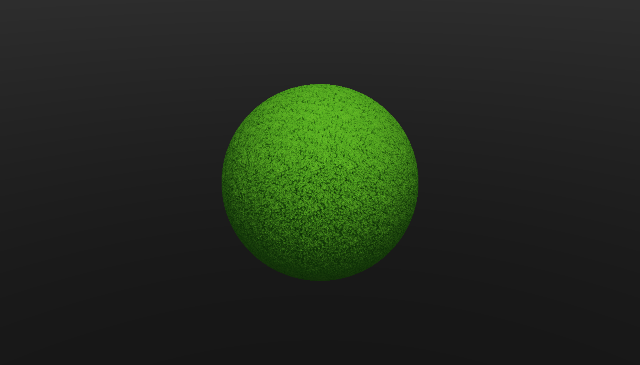
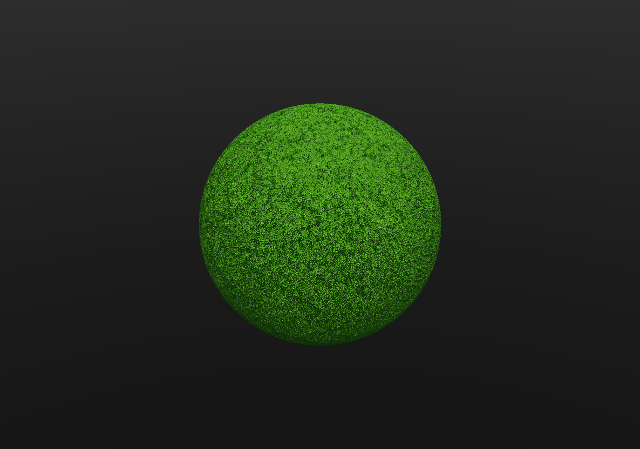
Audit leftovers I missed: bake-rev invalidation, the mesh inspector's own decode
Completing the previous commit, which staged the experiment shaders but not the
harness-side work that went with them:

- `src/bake/io.ts` + `cache.ts` gain SHARED_BAKE_REV, so a change to a SHARED
  decoder invalidates every OPFS entry. Bake keys are per-experiment and contain
  no decoder version, so without this a stale artifact is loaded in preference to
  re-baking and the fix silently does nothing. Verified by seeding a cache with
  legacy and r1 entries and watching both get evicted.
- `mesh-view.wgsl` was the 40th hand-rolled copy — the harness's own mesh
  inspector, which is the page you would use to check whether normals look
  right. It now includes the shared decoder like everything else.
- `src/gpu/texture.ts`: a comment claimed its self-consistent octahedral
  encode/decode pair "matched GcMesh.normalAt()". That was the wrong half of the
  truth — both were y-derived and only one of them was allowed to be. The pair is
  free to derive whichever axis it likes because it round-trips against itself;
  the note now says so and points at the measured GCMESH1 convention instead.

Left alone deliberately: AGENTS.md (untracked, a CLAUDE.md copy whose only
difference is "Standing practice for Codex" — not mine to commit), and
src/material/** plus the two new material directories, which two agents are
actively editing.

Changed region(s): [[0.3125, 0.211, 0.6875, 0.7534]]

diff --git a/src/bake/io.ts b/src/bake/io.ts
@@ -1,6 +1,6 @@
 import { HAS_DEV_SINK } from '../util/env.ts'
 import { assetUrl } from '../util/paths.ts'
-import { bakeCacheGet, bakeCachePut } from './cache.ts'
+import { bakeCacheGet, bakeCachePruneOther, bakeCachePut } from './cache.ts'
 
 /**
  * Per-experiment bake flow. An experiment's baked artifact format is entirely
@@ -32,13 +32,36 @@ export interface BakeContext {
   onProgress?: (fraction: number, note?: string) => void
 }
 
+/**
+ * Revision of the SHARED code every bake reads through — bump it and every
+ * OPFS-cached artifact in every browser is invalidated at once.
+ *
+ * An experiment folds its own `bakeVersion` into `ctx.key`, but it cannot fold
+ * in a harness change, and a stale cache silently wins over corrected code:
+ * that is exactly what happened when the GCMESH1 octahedral normal decode was
+ * corrected (2026-07-26) — every bake that had ever decoded a source normal was
+ * wrong, and every one of them would have been served from OPFS anyway.
+ * Committed files under mesh/baked/ are NOT namespaced by this (their paths are
+ * quoted in NOTES.md and bench results); invalidate those by deleting them.
+ *
+ *   r1  original
+ *   r2  GCMESH1 source normals: stored pair is (x, y) and the derived component
+ *       is z, not y (src/wgsl/gcmesh.wgsl, decodeGcMeshNormal)
+ */
+const SHARED_BAKE_REV = 'r2'
+
 /** OPFS key. 'bin' keeps the historical spelling so no cache needs migrating. */
 function cacheKey(ctx: BakeContext): string {
   const ext = ctx.ext ?? 'bin'
-  return ext === 'bin' ? `${ctx.expId}__${ctx.key}` : `${ctx.expId}__${ctx.key}__${ext}`
+  const base = ext === 'bin' ? `${ctx.expId}__${ctx.key}` : `${ctx.expId}__${ctx.key}__${ext}`
+  return `${SHARED_BAKE_REV}__${base}`
 }
 
+let pruned: Promise<void> | null = null
+
 export async function bakedArtifact(ctx: BakeContext, bake: () => Promise<ArrayBuffer>): Promise<ArrayBuffer> {
+  // Once per session, evict artifacts from earlier shared revisions.
+  pruned ??= bakeCachePruneOther(`${SHARED_BAKE_REV}__`)
   const fullKey = cacheKey(ctx)
   const cached = await bakeCacheGet(fullKey)
   if (cached) return cached

diff --git a/src/gpu/texture.ts b/src/gpu/texture.ts
@@ -769,12 +769,18 @@ ${body}
  * `createTexture2D` throws if you try, and the reason is in
  * `OCTAHEDRAL_MIP_ERROR` / the module header.
  *
- * This is the house convention, matching `GcMesh.normalAt()` in
- * src/mesh/gcmesh.ts and the ~62 WGSL decoders already in experiments/:
  * **Y-primary** — the stored pair is (n.x, n.z) and n.y is the derived
  * component, folded when negative. Encode returns [0,1]; decode takes [0,1].
  * The sign uses `select(-1, 1, v >= 0)`, not `sign()`, which returns 0 at
  * exactly 0 (a dozen experiment shaders have that latent difference).
+ *
+ * This pair is SELF-CONSISTENT and unrelated to the source-mesh convention:
+ * `encode(decode(t)) == t`, so which axis it derives is a free choice and
+ * nothing here needs to change. It is emphatically NOT the GCMESH1 decode —
+ * that one derives **z**, lives in `decodeGcMeshNormal()` /
+ * `src/wgsl/gcmesh.wgsl`, and was measured rather than assumed. This comment
+ * used to claim the two matched, which was the wrong half of the truth: they
+ * were both y-derived, and only one of them was allowed to be.
  *
  * Emits `<name>_oct_encode(n: vec3f) -> vec2f` and `<name>_oct_decode(e: vec2f) -> vec3f`,
  * matching `octEncode`/`octDecode` below.
@@ -782,7 +788,8 @@ ${body}
 export function wgslOctahedral(name: string): string {
   return `// GENERATED by wgslOctahedral("${name}").
 // NON-MIPPED storage only: octahedral values are not mip-averageable.
-// Y-primary, matching GcMesh.normalAt(). Range [0,1] both ways.
+// Y-primary and self-consistent with its own encode; NOT the GCMESH1 source
+// convention (that one is gcmesh_normal_decode()). Range [0,1] both ways.
 fn ${name}_oct_sign(v: f32) -> f32 {
   return select(-1.0, 1.0, v >= 0.0);
 }

diff --git a/src/bake/cache.ts b/src/bake/cache.ts
@@ -36,6 +36,27 @@ export async function bakeCachePut(key: string, data: ArrayBuffer): Promise<void
   }
 }
 
+/**
+ * Drop every cached artifact whose name does not start with `prefix` — the
+ * one-shot GC for a shared-revision bump. Without it a bump would silently
+ * strand the previous revision's artifacts in OPFS forever (they are hundreds of
+ * megabytes), since nothing ever reads them again. Best-effort: a failure here
+ * only wastes space.
+ */
+export async function bakeCachePruneOther(prefix: string): Promise<void> {
+  const dir = await bakeDir()
+  if (!dir) return
+  try {
+    const stale: string[] = []
+    for await (const name of (dir as unknown as { keys(): AsyncIterable<string> }).keys()) {
+      if (!name.startsWith(prefix)) stale.push(name)
+    }
+    for (const name of stale) await dir.removeEntry(name).catch(() => {})
+  } catch {
+    /* no iteration support, or a concurrent writer — harmless */
+  }
+}
+
 export async function bakeCacheClear(): Promise<void> {
   try {
     const root = await navigator.storage.getDirectory()

diff --git a/src/harness/views/shared.ts b/src/harness/views/shared.ts
@@ -168,10 +168,13 @@ export function previewSummary(app: LabApp): string {
   if (!isMaterialStage(stage)) return 'no preview object'
   const m = stage.geometry.mesh
   const wrap = m.uvPeriod.map((p, i) => (p > 0 ? `${'uv'[i]} wraps @${p.toFixed(2)}m` : `${'uv'[i]} open`)).join(' · ')
+  // uvEdge, not uvPeriod, is what says whether a uv range ENDS the surface — the
+  // one thing a displacing material may clip against.
+  const edges = m.uvEdge.map((e, i) => `${'uv'[i]} ${e}`).join(' · ')
   return (
     `${m.title} · ${formatCount(m.indexCount / 3)} tris · uv in metres ` +
     `[${m.uvBounds.min[0].toFixed(2)},${m.uvBounds.min[1].toFixed(2)}]–` +
-    `[${m.uvBounds.max[0].toFixed(2)},${m.uvBounds.max[1].toFixed(2)}] · ${wrap}`
+    `[${m.uvBounds.max[0].toFixed(2)},${m.uvBounds.max[1].toFixed(2)}] · ${wrap} · edge: ${edges}`
   )
 }
 
